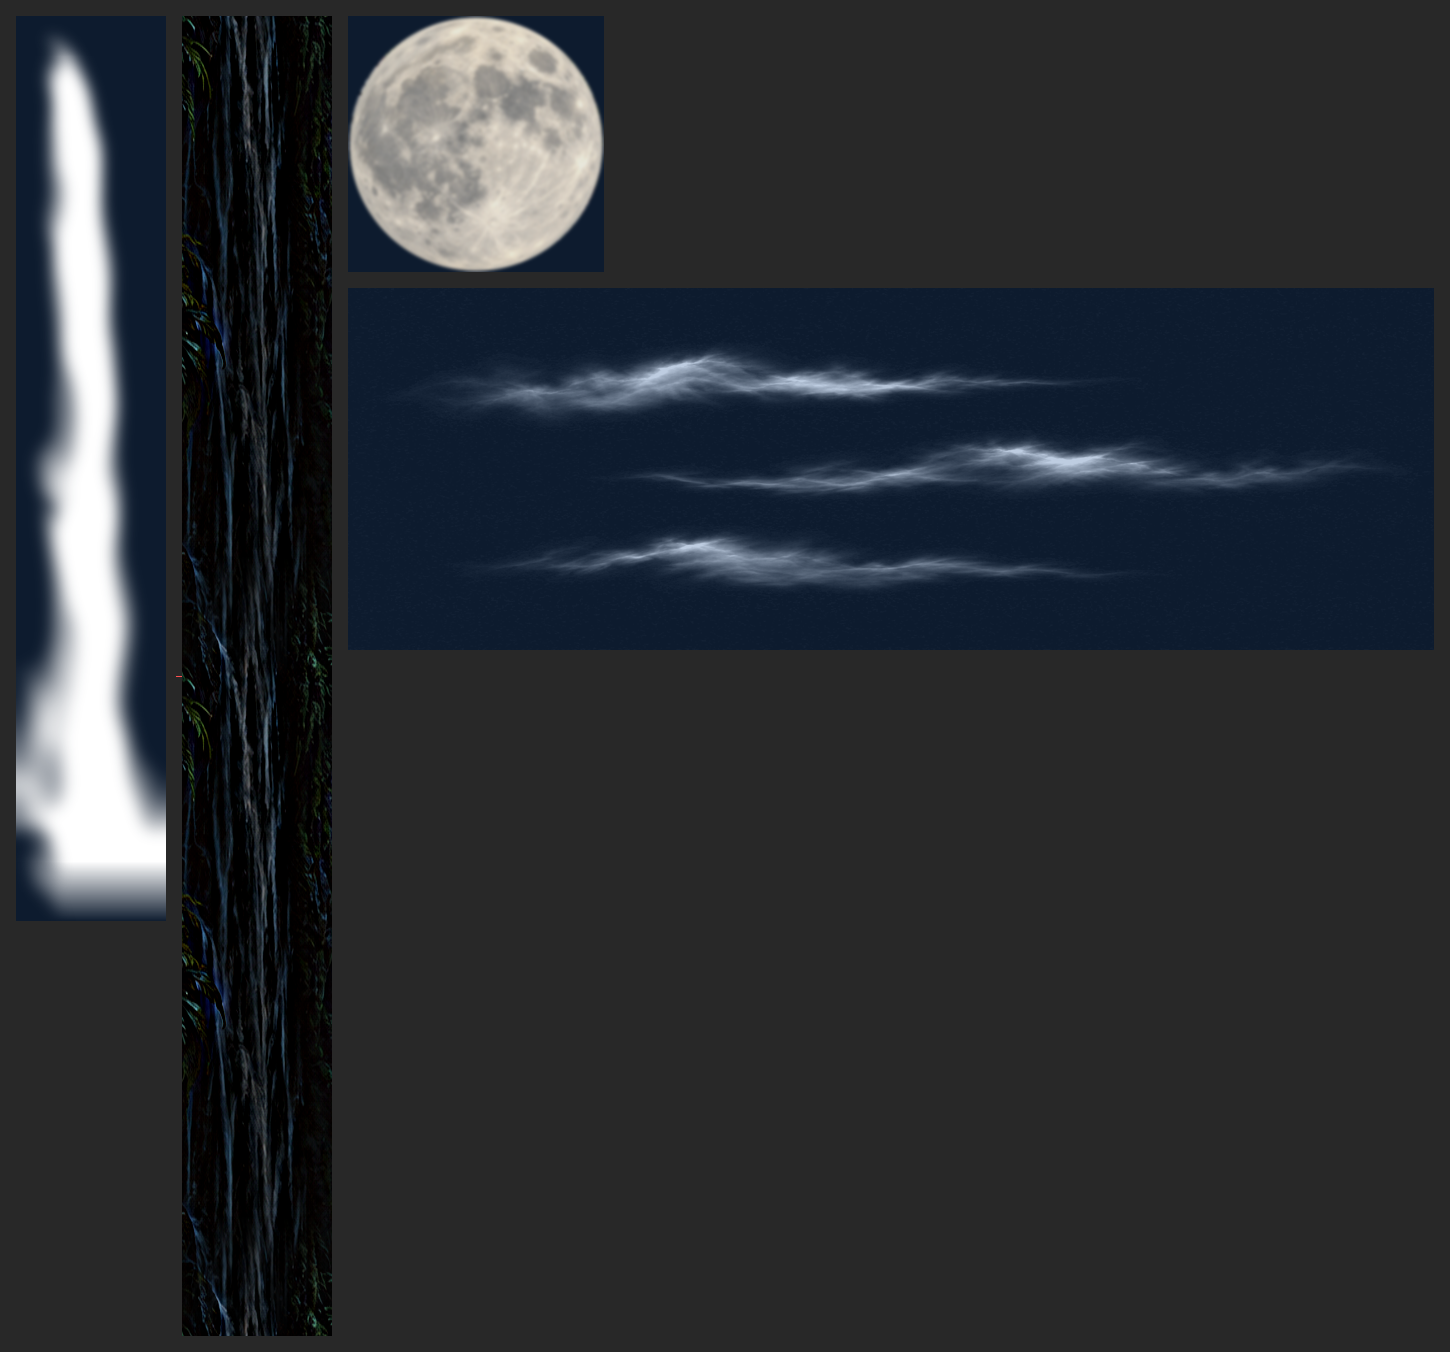
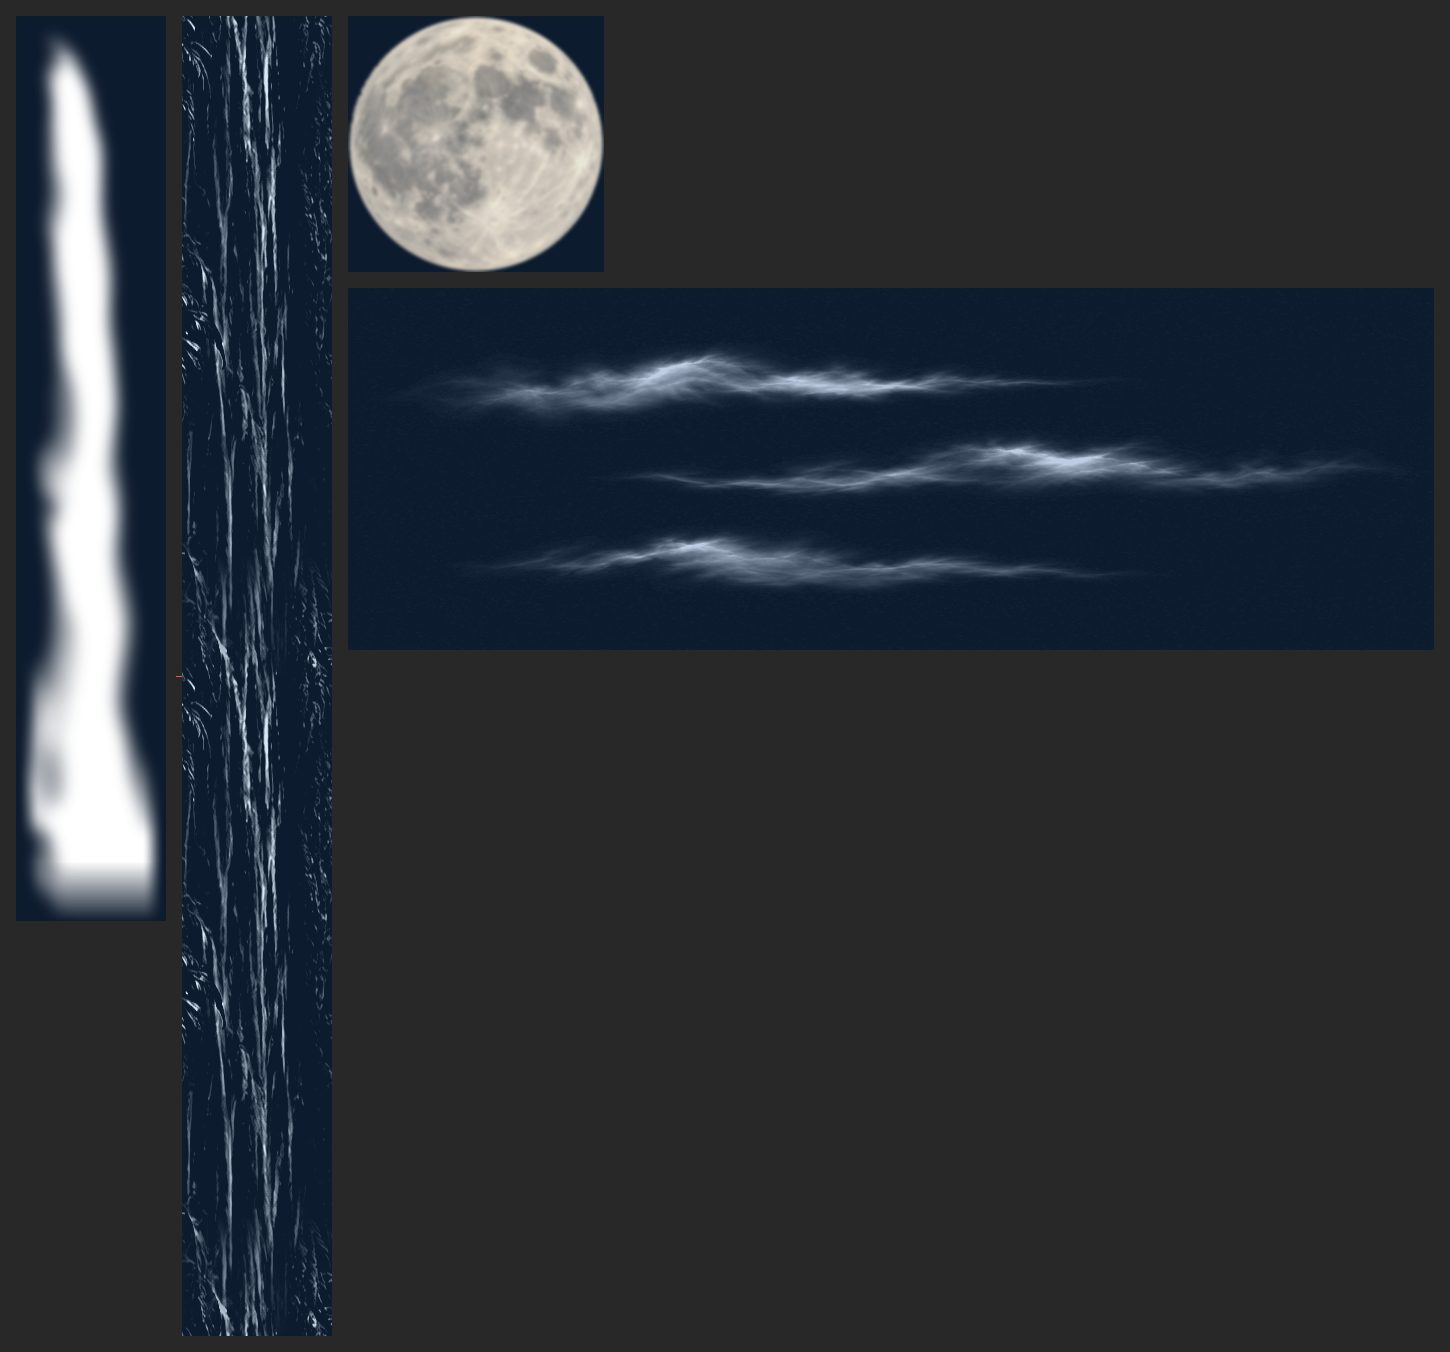
Живой фон: струи воды только светлят, маска гаснет к краям — без прямой линии у водопада

Changed region(s): [[0.0931, 0.0, 0.2483, 0.9941], [0.0, 0.497, 0.031, 0.6213]]

diff --git a/assets/backdrop/land1/water-mask.js b/assets/backdrop/land1/water-mask.js
@@ -5,4 +5,4 @@
    js/visuals-backdrop.js берёт отсюда маску по пути land.backdrop.mask
    (tests/backdrop-core.test.js сверяет байты с .webp). */
 (window.BACKDROP_DATA = window.BACKDROP_DATA || {})['assets/backdrop/land1/water-mask.webp'] =
[2 lines of base64/hex data omitted]

diff --git a/css/backdrop.css b/css/backdrop.css
@@ -45,7 +45,9 @@
   background: var(--bd-tex) 0 0 / 100% var(--bd-tile) repeat-y;
   will-change: transform;
   animation: bdFall var(--dur) linear infinite;
-  mix-blend-mode: screen;
+  /* Обычное наложение: плитка светлая, рисунок в альфе, поэтому слой только
+     светлит. (mix-blend-mode тут не работает: маска делает .bd-wf
+     изолированной группой.) */
 }
 
 .bd-water-a { --dur: 3.2s; opacity: .55; }

diff --git a/tools/pack_backdrop.py b/tools/pack_backdrop.py
@@ -4,8 +4,11 @@
 Исходники: art-src/phase2/backdrop/src/{plate,moon,clouds}.png.
 Результат: assets/backdrop/land<N>/
   plate.webp       плита (картина целиком, q 86)
-  water.webp       плитка «струй»: высокие частоты водопада, бесшовная по вертикали
-  water-mask.webp  белая картинка, вся информация в альфе: где вода видна
+  water.webp       плитка «струй» RGBA: ровный бело-голубой цвет, альфа — яркость
+                   высоких частот водопада (тёмное прозрачно: слой только светлит),
+                   бесшовная по вертикали
+  water-mask.webp  белая картинка, вся информация в альфе: где вода видна;
+                   крайние столбцы вырезки — ровно 0 (затухание по 15 % ширины)
   water-mask.js    та же маска как data: URI (CSS-маску по file:// Chromium
                    и WebKit не грузят: запрос маски идёт с CORS)
   moon.webp        луна 256x256, круглая альфа, вшиты brightness(.92) и размытие
@@ -32,6 +35,12 @@ TEX_Y0, TEX_Y1 = 150, 750
 TEX_STRETCH = 1.3
 SEAM = 120            # строк на склейку «конец -> начало»
 MASK_FADE_TOP, MASK_FADE_BOTTOM = 40, 60
+MASK_FADE_SIDE = 0.15     # затухание маски слева и справа, доля ширины вырезки
+MASK_ZERO_COLS = 2        # столько крайних столбцов с каждой стороны — ровно 0
+# струи: цвет и альфа из яркости высоких частот L (в них «ровное место» = 8):
+# a = clip((L - TEX_A_LO) / TEX_A_SPAN, 0, 1) ** TEX_A_POW * 255
+TEX_COLOR = (215, 232, 245)
+TEX_A_LO, TEX_A_SPAN, TEX_A_POW = 12.0, 90.0, 1.0
 MOON_SIZE = 256
 # CSS blur(.6px) в пробнике шёл по диску ~100 px; в картинке 256 px это ~1,5 px
 MOON_BLUR = 1.5
@@ -72,6 +81,17 @@ def make_mask(plate):
         for x in range(w):
             px[x, y] = v
     m = ImageChops.multiply(m, fade)
+    # затухание по бокам: иначе у тумана внизу маска упирается в край вырезки
+    # и на экране видна прямая вертикальная граница
+    side = Image.new("L", (w, h), 0)
+    ramp_w = MASK_FADE_SIDE * w
+    row = []
+    for x in range(w):
+        d = min(x, w - 1 - x) - MASK_ZERO_COLS + 1   # 0 у последнего нулевого столбца
+        t = min(max(d / ramp_w, 0.0), 1.0)
+        row.append(int(round(255 * t * t * (3 - 2 * t))))  # smoothstep: у края почти 0
+    side.putdata(row * h)
+    m = ImageChops.multiply(m, side)
     mask = Image.new("RGBA", (w, h), (255, 255, 255, 0))
     mask.putalpha(m)
     return mask
@@ -88,20 +108,35 @@ def make_tex(plate):
             s=s.convert("F"), l=l.convert("F"))
         bands.append(hp)
     hp = Image.merge("RGB", bands)
-    tex = hp.resize((seg.width, int(seg.height * TEX_STRETCH)), Image.BICUBIC)
-    top = tex.crop((0, 0, tex.width, SEAM))
-    body = tex.crop((0, SEAM, tex.width, tex.height))
+    # Слой струй только светлит: рисунок — в альфе, цвет ровный светлый.
+    # Тёмные места высоких частот прозрачны (прежняя RGB-плитка без альфы
+    # затемняла нарисованный водопад: маска делает .bd-wf изолированной
+    # группой, и screen там работает как обычное наложение).
+    # Растяжение и склейка — на одной альфе (у RGBA Pillow портит цвет
+    # прозрачных пикселей), цвет добавляется в конце.
+    alpha = lum_mean(hp).point(
+        lambda v: int(round(min(max((v - TEX_A_LO) / TEX_A_SPAN, 0.0), 1.0) ** TEX_A_POW * 255)))
+    a = alpha.resize((seg.width, int(seg.height * TEX_STRETCH)), Image.BICUBIC)
+    top = a.crop((0, 0, a.width, SEAM))
+    body = a.crop((0, SEAM, a.width, a.height))
     # последние SEAM строк тела плавно переходят в первые SEAM строк (потом отброшенные)
-    ramp = Image.linear_gradient("L").resize((tex.width, SEAM), Image.BILINEAR)
+    ramp = Image.linear_gradient("L").resize((a.width, SEAM), Image.BILINEAR)
     tail = body.crop((0, body.height - SEAM, body.width, body.height))
     tail = Image.composite(top, tail, ramp)  # ramp 0 -> хвост, 255 -> верх
     body.paste(tail, (0, body.height - SEAM))
-    return body
+    tex = Image.new("RGBA", body.size, TEX_COLOR + (255,))
+    tex.putalpha(body)
+    return tex
+
+
+def tex_luma(im):
+    """Рисунок плитки: у RGBA — альфа (цвет ровный), иначе яркость."""
+    return im.getchannel("A") if im.mode == "RGBA" else im.convert("L")
 
 
 def row_diff(im, y0, y1):
-    """Средняя |разность| строк y0 и y1 (по яркости)."""
-    g = im.convert("L")
+    """Средняя |разность| строк y0 и y1 (по рисунку)."""
+    g = tex_luma(im)
     a = g.crop((0, y0, g.width, y0 + 1))
     b = g.crop((0, y1, g.width, y1 + 1))
     return ImageStat.Stat(ImageChops.difference(a, b)).mean[0]
@@ -109,7 +144,7 @@ def row_diff(im, y0, y1):
 
 def seam_numbers(tex):
     h = tex.height
-    g = tex.convert("L")
+    g = tex_luma(tex)
     adj = ImageChops.difference(g.crop((0, 0, g.width, h - 1)), g.crop((0, 1, g.width, h)))
     adj_mean = ImageStat.Stat(adj).mean[0]
     seam = row_diff(tex, h - 1, 0)
@@ -201,9 +236,9 @@ def check_sheet(out_dir, mask, tex, moon, clouds, path):
     mw, mh = mask.size
     mask_view = Image.new("RGB", (mw, mh), bg)
     mask_view.paste(Image.new("RGB", (mw, mh), (255, 255, 255)), (0, 0), mask.getchannel("A"))
-    tile2 = Image.new("RGB", (tex.width, tex.height * 2))
-    tile2.paste(tex, (0, 0))
-    tile2.paste(tex, (0, tex.height))
+    tile2 = Image.new("RGB", (tex.width, tex.height * 2), bg)
+    tile2.paste(tex, (0, 0), tex)
+    tile2.paste(tex, (0, tex.height), tex)
     moon_view = Image.new("RGB", moon.size, bg)
     moon_view.paste(moon, (0, 0), moon)
     cw, ch = clouds.size
@@ -222,6 +257,25 @@ def check_sheet(out_dir, mask, tex, moon, clouds, path):
     ys = pad + tex.height
     d.line([(x - pad - tex.width - 6, ys), (x - pad - tex.width - 1, ys)], fill=(255, 80, 80), width=1)
     sheet.save(path)
+
+
+def verify_outputs(out):
+    """Проверка готовых файлов (с --check): маска по краям ровно 0, плитка струй RGBA."""
+    errors = []
+    mask = Image.open(os.path.join(out, "water-mask.webp"))
+    a = mask.getchannel("A") if "A" in mask.getbands() else None
+    if a is None:
+        errors.append("water-mask.webp без альфы")
+    else:
+        w, h = a.size
+        for x in list(range(MASK_ZERO_COLS)) + list(range(w - MASK_ZERO_COLS, w)):
+            hi = a.crop((x, 0, x + 1, h)).getextrema()[1]
+            if hi != 0:
+                errors.append("water-mask.webp: столбец %d альфа до %d, нужен 0" % (x, hi))
+    tex = Image.open(os.path.join(out, "water.webp"))
+    if tex.mode != "RGBA":
+        errors.append("water.webp в режиме %s, нужен RGBA" % tex.mode)
+    return errors
 
 
 def main():
@@ -243,7 +297,7 @@ def main():
 
     sizes = {
         "plate.webp": save(plate, os.path.join(out, "plate.webp"), quality=Q_PLATE),
-        "water.webp": save(tex, os.path.join(out, "water.webp"), quality=Q_TEX),
+        "water.webp": save(tex, os.path.join(out, "water.webp"), quality=Q_TEX, alpha_quality=90),
         "water-mask.webp": save(mask, os.path.join(out, "water-mask.webp"), lossless=True),
         "moon.webp": save(moon, os.path.join(out, "moon.webp"), quality=88, alpha_quality=95),
         "clouds.webp": save(clouds, os.path.join(out, "clouds.webp"), quality=Q_CLOUDS, alpha_quality=90),
@@ -278,6 +332,10 @@ def main():
         os.makedirs(os.path.dirname(a.check) or ".", exist_ok=True)
         check_sheet(out, mask, tex, moon, clouds, a.check)
         print("лист проверки:", a.check)
+        errors = verify_outputs(out)
+        if errors:
+            sys.exit("проверка не прошла: " + "; ".join(errors))
+        print("проверка: маска по краям 0, water.webp RGBA")
     if total > 450 * 1024:
         sys.exit("бюджет 450 КБ превышен")
 
